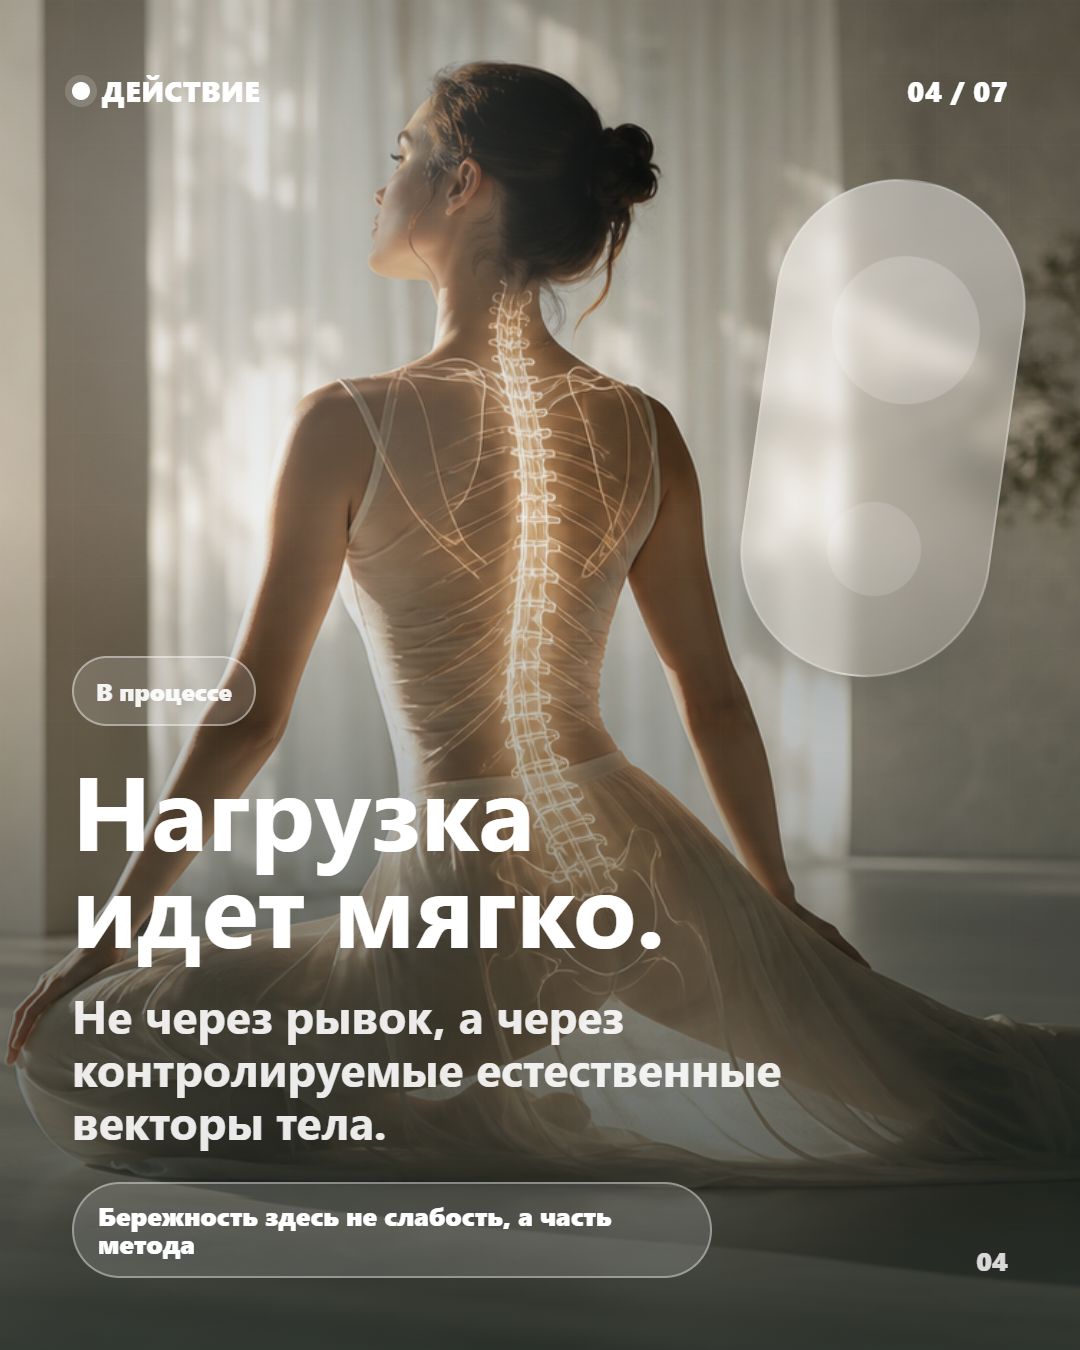
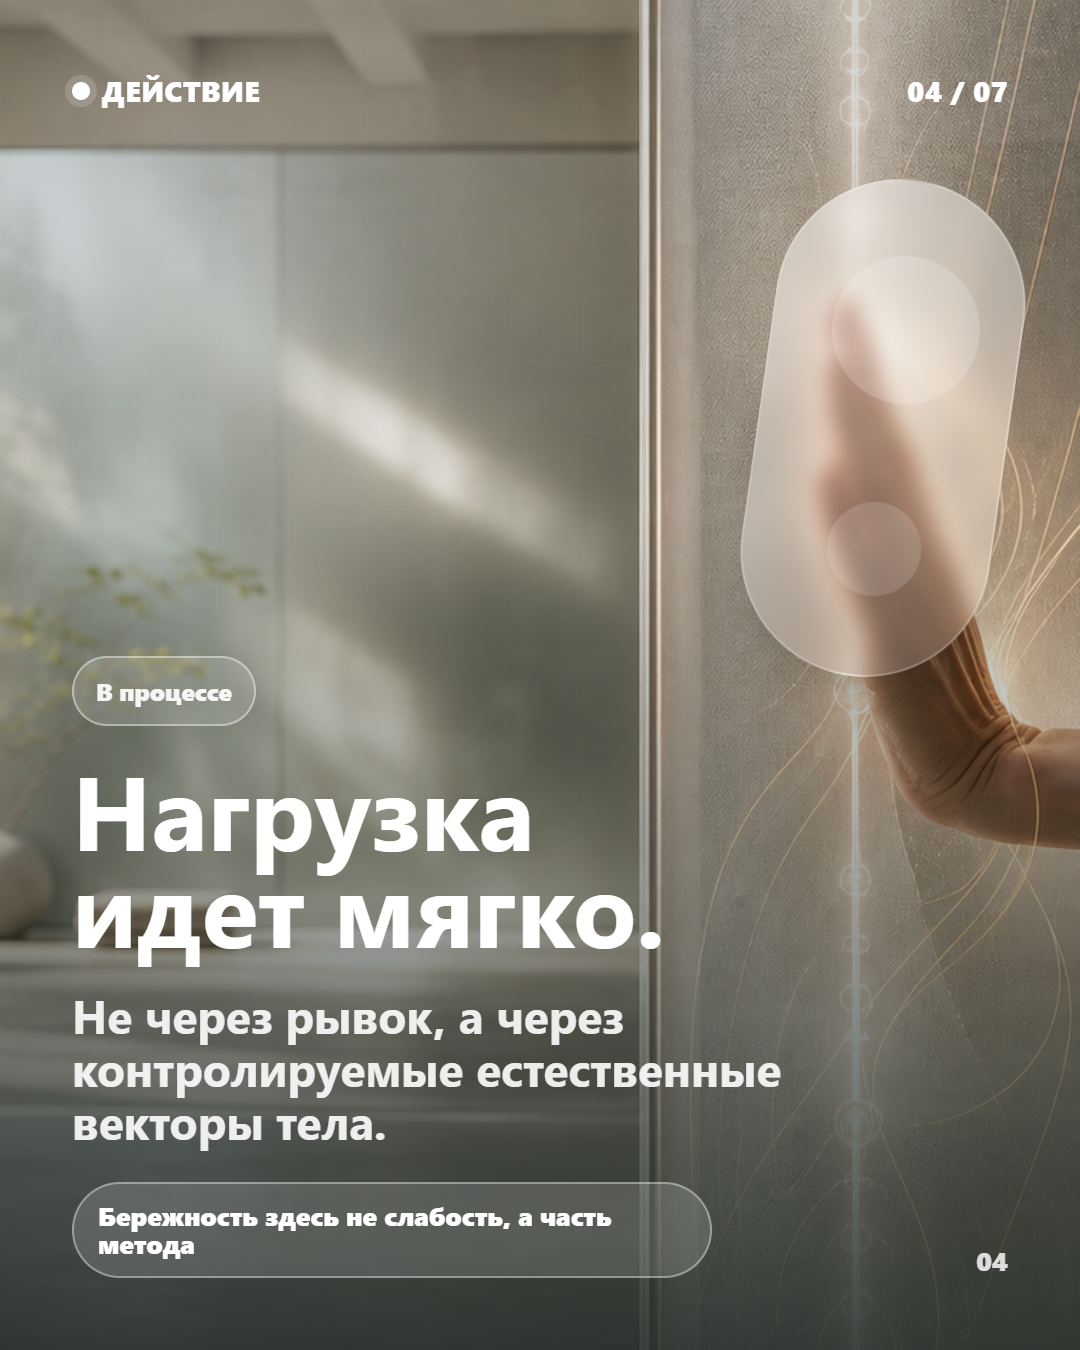
Add unique visuals for carousel 01

diff --git a/carousel-example.html b/carousel-example.html
@@ -716,10 +716,10 @@
             <a class="mini-card" href="#slide-1"><img src="assets/afg-hero-opora.png" width="1672" height="941" decoding="async" alt=""><span>01</span><strong>Как проходит?</strong></a>
             <a class="mini-card" href="#slide-2"><img src="assets/afg-resource-breath.png" width="1672" height="941" decoding="async" alt=""><span>02</span><strong>Настройка тела</strong></a>
             <a class="mini-card" href="#slide-3"><img src="assets/afg-proof-atelier.png" width="1672" height="941" decoding="async" alt=""><span>03</span><strong>Скелет как фундамент</strong></a>
-            <a class="mini-card" href="#slide-4"><img src="assets/afg-hero-opora.png" width="1672" height="941" decoding="async" alt=""><span>04</span><strong>Осевая нагрузка</strong></a>
-            <a class="mini-card" href="#slide-5"><img src="assets/afg-proof-atelier.png" width="1672" height="941" decoding="async" alt=""><span>05</span><strong>Коротко и точно</strong></a>
-            <a class="mini-card" href="#slide-6"><img src="assets/afg-resource-breath.png" width="1672" height="941" decoding="async" alt=""><span>06</span><strong>Интеграция</strong></a>
-            <a class="mini-card" href="#slide-7"><img src="assets/afg-hero-opora.png" width="1672" height="941" decoding="async" alt=""><span>07</span><strong>Записаться</strong></a>
+            <a class="mini-card" href="#slide-4"><img src="assets/afg-soft-load.png" width="1672" height="941" decoding="async" alt=""><span>04</span><strong>Осевая нагрузка</strong></a>
+            <a class="mini-card" href="#slide-5"><img src="assets/afg-precise-rhythm.png" width="1672" height="941" decoding="async" alt=""><span>05</span><strong>Коротко и точно</strong></a>
+            <a class="mini-card" href="#slide-6"><img src="assets/afg-after-integration.png" width="1672" height="941" decoding="async" alt=""><span>06</span><strong>Интеграция</strong></a>
+            <a class="mini-card" href="#slide-7"><img src="assets/afg-invitation-threshold.png" width="1672" height="941" decoding="async" alt=""><span>07</span><strong>Записаться</strong></a>
           </div>
         </div>
       </section>
@@ -806,7 +806,7 @@
 
             <article class="slide-card" id="slide-4">
               <div class="slide-frame">
-                <img src="assets/afg-hero-opora.png" width="1672" height="941" loading="lazy" decoding="async" alt="Фон про мягкую осевую нагрузку">
+                <img src="assets/afg-soft-load.png" width="1672" height="941" loading="lazy" decoding="async" alt="Фон про мягкую осевую нагрузку">
                 <div class="slide-content">
                   <div class="slide-top"><span>ДЕЙСТВИЕ</span><span>04 / 07</span></div>
                   <div class="slide-bottom">
@@ -830,7 +830,7 @@
 
             <article class="slide-card" id="slide-5">
               <div class="slide-frame">
-                <img src="assets/afg-proof-atelier.png" width="1672" height="941" loading="lazy" decoding="async" alt="Фон про точность и структуру занятия">
+                <img src="assets/afg-precise-rhythm.png" width="1672" height="941" loading="lazy" decoding="async" alt="Фон про точность и ритм занятия">
                 <div class="slide-content">
                   <div class="slide-top"><span>РИТМ</span><span>05 / 07</span></div>
                   <div class="slide-bottom">
@@ -854,7 +854,7 @@
 
             <article class="slide-card" id="slide-6">
               <div class="slide-frame light">
-                <img src="assets/afg-resource-breath.png" width="1672" height="941" loading="lazy" decoding="async" alt="Фон про интеграцию после занятия">
+                <img src="assets/afg-after-integration.png" width="1672" height="941" loading="lazy" decoding="async" alt="Фон про интеграцию после занятия">
                 <div class="slide-content">
                   <div class="slide-top"><span>ПОСЛЕ</span><span>06 / 07</span></div>
                   <div class="slide-bottom">
@@ -878,7 +878,7 @@
 
             <article class="slide-card" id="slide-7">
               <div class="slide-frame">
-                <img src="assets/afg-hero-opora.png" width="1672" height="941" loading="lazy" decoding="async" alt="Фон финального CTA про практику опоры">
+                <img src="assets/afg-invitation-threshold.png" width="1672" height="941" loading="lazy" decoding="async" alt="Фон финального CTA про практику опоры">
                 <div class="slide-content">
                   <div class="slide-top"><span>ШАГ</span><span>07 / 07</span></div>
                   <div class="slide-bottom">

diff --git a/carousel-export.html b/carousel-export.html
@@ -326,7 +326,7 @@
     </section>
 
     <section class="slide slide-4" data-slide="4" aria-label="Слайд 4">
-      <img class="bg" src="assets/afg-hero-opora.png" width="1672" height="941" alt="">
+      <img class="bg" src="assets/afg-soft-load.png" width="1672" height="941" alt="">
       <div class="surface" aria-hidden="true"></div>
       <div class="frame">
         <div class="topline"><span class="brand">ДЕЙСТВИЕ</span><span>04 / 07</span></div>
@@ -340,7 +340,7 @@
     </section>
 
     <section class="slide slide-5" data-slide="5" aria-label="Слайд 5">
-      <img class="bg" src="assets/afg-proof-atelier.png" width="1672" height="941" alt="">
+      <img class="bg" src="assets/afg-precise-rhythm.png" width="1672" height="941" alt="">
       <div class="surface" aria-hidden="true"></div>
       <div class="frame">
         <div class="topline"><span class="brand">РИТМ</span><span>05 / 07</span></div>
@@ -354,7 +354,7 @@
     </section>
 
     <section class="slide slide-6 light" data-slide="6" aria-label="Слайд 6">
-      <img class="bg" src="assets/afg-resource-breath.png" width="1672" height="941" alt="">
+      <img class="bg" src="assets/afg-after-integration.png" width="1672" height="941" alt="">
       <div class="surface" aria-hidden="true"></div>
       <div class="frame">
         <div class="topline"><span class="brand">ПОСЛЕ</span><span>06 / 07</span></div>
@@ -368,7 +368,7 @@
     </section>
 
     <section class="slide slide-7" data-slide="7" aria-label="Слайд 7">
-      <img class="bg" src="assets/afg-hero-opora.png" width="1672" height="941" alt="">
+      <img class="bg" src="assets/afg-invitation-threshold.png" width="1672" height="941" alt="">
       <div class="surface" aria-hidden="true"></div>
       <div class="frame">
         <div class="topline"><span class="brand">ШАГ</span><span>07 / 07</span></div>

diff --git a/visual-generation-recipe.md b/visual-generation-recipe.md
@@ -1,0 +1,105 @@
+# AFG ImageGen Visual Recipe
+
+This note documents where the strong generated visuals came from and how to continue the same style.
+
+## Source
+
+The three original visuals were generated with the built-in Codex `image_gen` tool on June 13, 2026.
+
+Generated source folder:
+
+```text
+C:\Users\User\.codex\generated_images\019ebe85-7174-71d2-942a-b6713d488983\
+```
+
+Project copies:
+
+```text
+assets/afg-hero-opora.png
+assets/afg-resource-breath.png
+assets/afg-proof-atelier.png
+```
+
+## Original Prompts
+
+### `assets/afg-hero-opora.png`
+
+```text
+Use case: ads-marketing
+Asset type: wide website hero visual for a premium wellness carousel page, 16:9 composition
+Primary request: a poetic premium visual for AFG body practice: inner support, skeletal foundation, calm strength
+Scene/backdrop: airy modern movement studio with soft morning light, pale floor, translucent architectural shadows, no visible brand logos
+Subject: an abstract human silhouette suggested through light, posture, and a subtle luminous skeletal axis, elegant and non-medical
+Style/medium: high-end editorial photography blended with refined 3D translucent anatomical light, cinematic but calm
+Composition/framing: wide horizontal image with generous negative space, subject slightly off-center, refined depth
+Lighting/mood: warm natural light, quiet confidence, premium, breathable, tactile
+Color palette: ivory, smoke gray, muted sage, soft amber highlights, restrained contrast
+Materials/textures: matte plaster, glass, soft textile, subtle bone-like porcelain glow
+Text: none
+Constraints: no readable text, no logos, no watermark, no medical equipment, no scary anatomy, no blood, no clinical hospital feel, no exaggerated muscles
+```
+
+### `assets/afg-resource-breath.png`
+
+```text
+Use case: ads-marketing
+Asset type: website section image for a social carousel about body resources, 16:9 composition
+Primary request: a premium abstract visual of restored energy, posture, breath, and inner balance after a precise wellness practice
+Scene/backdrop: serene bright studio interior with natural textures, light fabric suspended in air, stone, glass, and soft morning shadows
+Subject: sculptural vertical axis made of translucent porcelain, fine tension lines, breath-like ribbons of light, and grounded architectural forms; no human body
+Style/medium: refined editorial still life, photoreal base with subtle 3D generative light sculpture, high-end wellness campaign
+Composition/framing: horizontal composition, clean focal shape in the middle third, generous negative space around it
+Lighting/mood: calm, restored, focused, premium, not mystical, not clinical
+Color palette: pearl white, cool stone, muted olive, soft coral accent, natural warm highlights
+Materials/textures: fine paper grain, satin fabric, mineral surfaces, subtle volumetric light
+Text: none
+Constraints: no readable text, no logos, no watermark, no humans, no fitness cliches, no gym equipment, no hospital or lab, no fake charts
+```
+
+### `assets/afg-proof-atelier.png`
+
+```text
+Use case: ads-marketing
+Asset type: website section image for a social carousel about evidence, 16:9 composition
+Primary request: a premium visual metaphor for research, practice, and global proof without making medical claims
+Scene/backdrop: elegant research atelier, not a hospital: frosted glass, archival papers, subtle map grid, tactile models, soft daylight
+Subject: translucent bone-like lattice model on a table, fine golden measurement lines, abstract world-grid shadows, one small sphere suggesting orbit and space research context
+Style/medium: high-end editorial product photography with refined 3D elements, calm scientific luxury
+Composition/framing: wide horizontal still life, clear focal object, room for overlay copy on darkened areas if needed
+Lighting/mood: precise, trustworthy, intelligent, warm, premium
+Color palette: graphite gray, ivory, sage, muted gold, soft blue-gray shadows
+Materials/textures: frosted glass, vellum, porcelain, brushed metal, paper grain
+Text: none
+Constraints: no readable text, no logos, no watermark, no famous institution names, no medical charts, no doctors, no lab coats, no pills, no hospital, no fake data labels
+```
+
+## New Unique Carousel 01 Assets
+
+Added on June 16, 2026 to remove repeated visuals from Carousel 01:
+
+```text
+assets/afg-soft-load.png
+assets/afg-precise-rhythm.png
+assets/afg-after-integration.png
+assets/afg-invitation-threshold.png
+```
+
+These were generated with the same built-in `image_gen` workflow and the same 16:9 premium editorial wellness direction.
+
+## Current Carousel 01 Mapping
+
+```text
+01 -> assets/afg-hero-opora.png
+02 -> assets/afg-resource-breath.png
+03 -> assets/afg-proof-atelier.png
+04 -> assets/afg-soft-load.png
+05 -> assets/afg-precise-rhythm.png
+06 -> assets/afg-after-integration.png
+07 -> assets/afg-invitation-threshold.png
+```
+
+The exported PNG files were regenerated here:
+
+```text
+exports/afg-carousel-01/
+```

diff --git a/README.md b/README.md
@@ -14,6 +14,7 @@ Static GitHub Pages package for the AFG content system.
 - Visual prompts: `visual-prompts.md`
 - ComfyUI prompts page: `comfy-prompts.html`
 - ComfyUI prompts: `comfy-prompts.md`
+- ImageGen visual recipe: `visual-generation-recipe.md`
 - Filled exports gallery: `exports-gallery.html`
 - Legacy carousel 01 renderer: `carousel-export.html`
 - Production renderer for all 3 carousels: `carousel-production.html`
